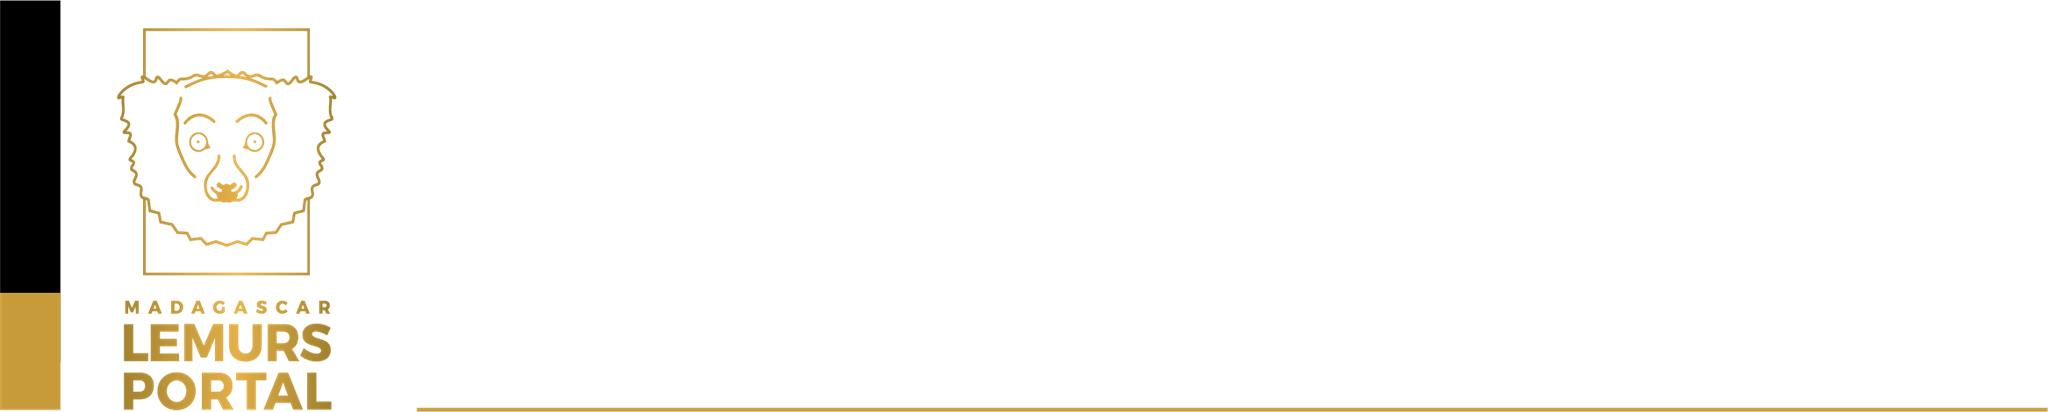
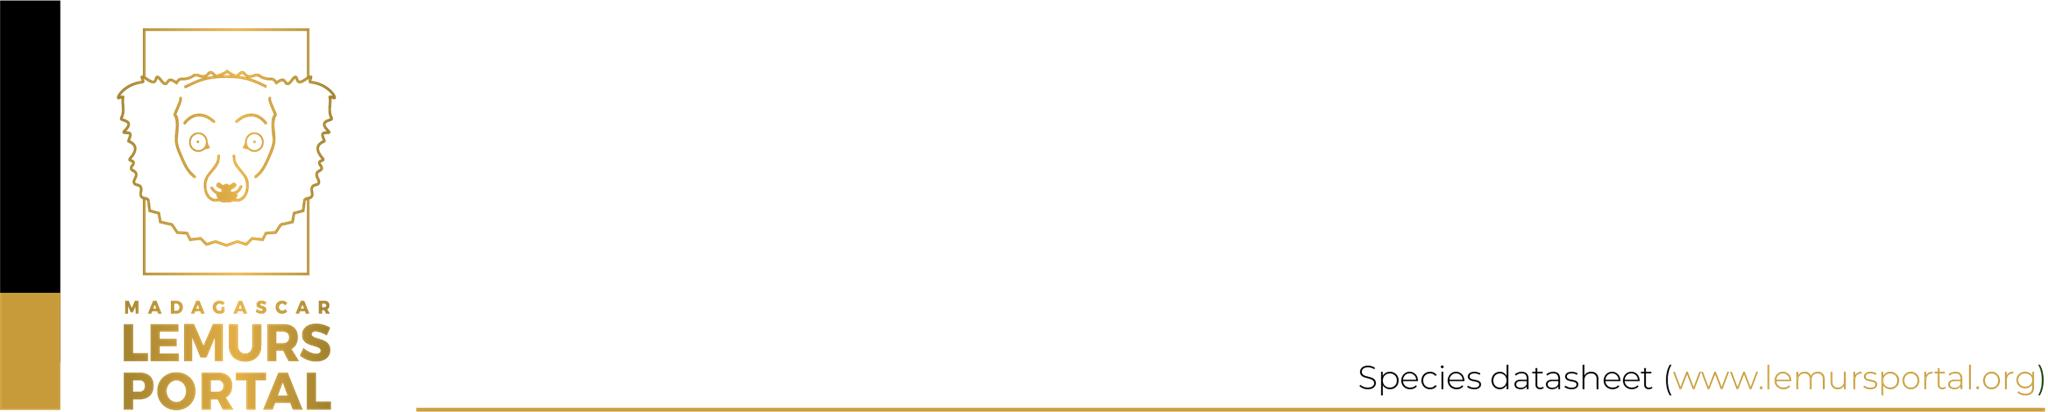
species database => header fiche, traduction

Changed region(s): [[0.6562, 0.8738, 1.0, 0.9612], [0.0938, 0.932, 0.1562, 0.9612], [0.125, 0.7282, 0.1562, 0.7573]]

diff --git a/src/main/java/org/wcs/lemurs/util/ReportGenerator.java b/src/main/java/org/wcs/lemurs/util/ReportGenerator.java
@@ -98,7 +98,7 @@ public class ReportGenerator {
             for(Field f : field) {
                 parameters.put(f.getName(), taxonomi.getClass().getMethod("get" + f.getName().substring(0, 1).toUpperCase() + f.getName().substring(1), null).invoke(taxonomi, null));
             } 
-            parameters.put("link", "www.lemursportal.org");
+            parameters.put("link", "");
             // - Execution du rapport
             JasperPrint jasperPrint = JasperFillManager.fillReport(jasperReport, parameters, new JREmptyDataSource());
             
